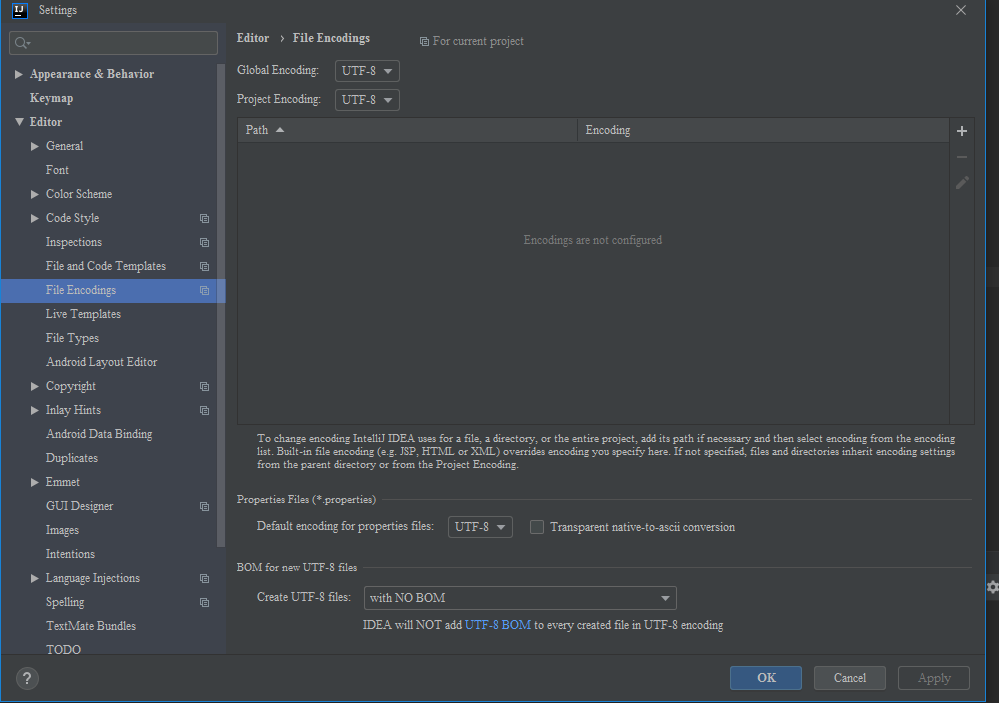
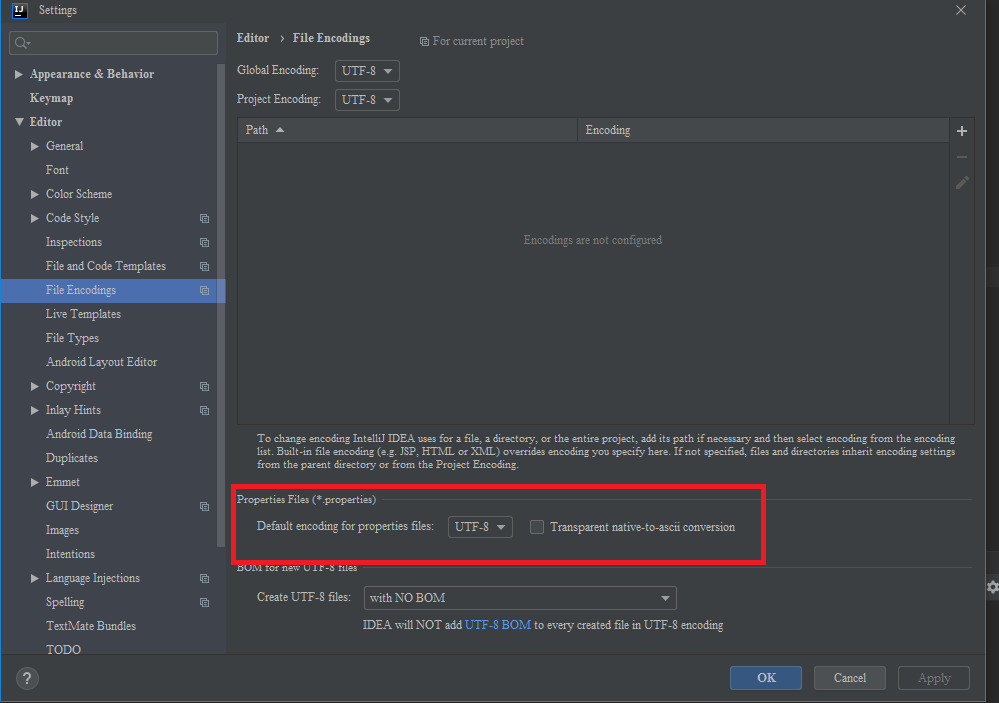
updated readme

Changed region(s): [[0.2172, 0.6871, 0.7758, 0.8065]]

diff --git a/README.md b/README.md
@@ -34,6 +34,6 @@ This will REDIRECT the page to the given URL and set the language as the string 
 
 This is a compiler problem, not a programming problem. It is the way the files are encoded.
 
-In your ecclipse hit the keys `ctrl+s` buton. Go to Editor, then File Encodings. Change the property for `Default encoding for properties files` to UTF-8. This should solve the problem. See the following image
+In your Intellij hit the keys `ctrl+alt+s` buton. Go to Editor, then File Encodings. Change the property for `Default encoding for properties files` to UTF-8. This should solve the problem. See the following image
 
 ![Alt Text](/readmeImages/changeSetEncod.PNG)
